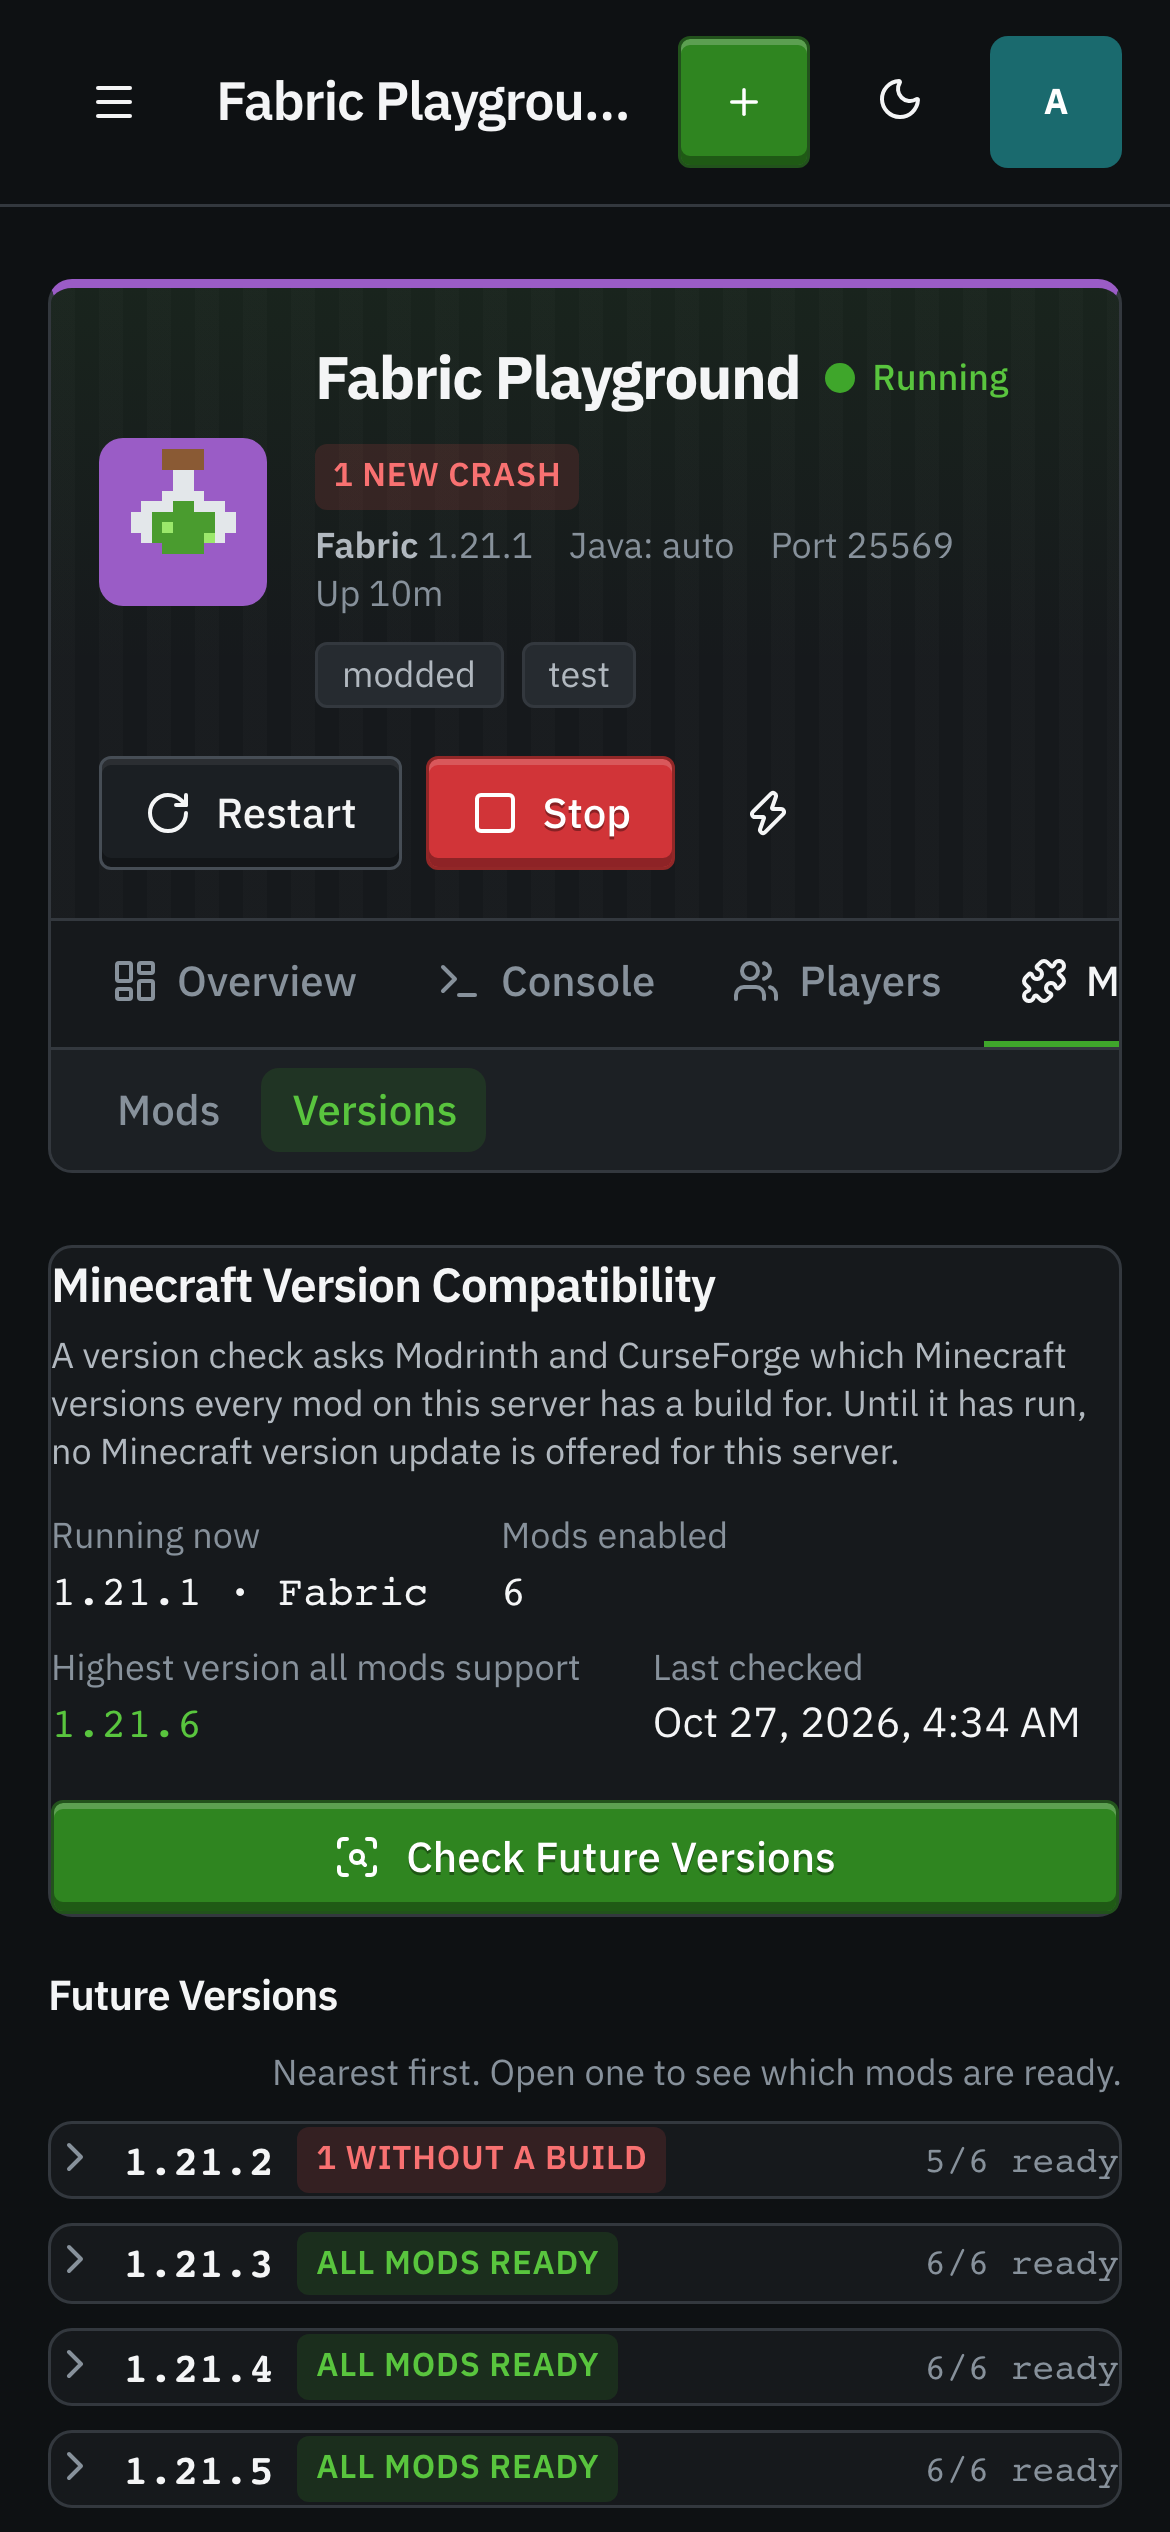
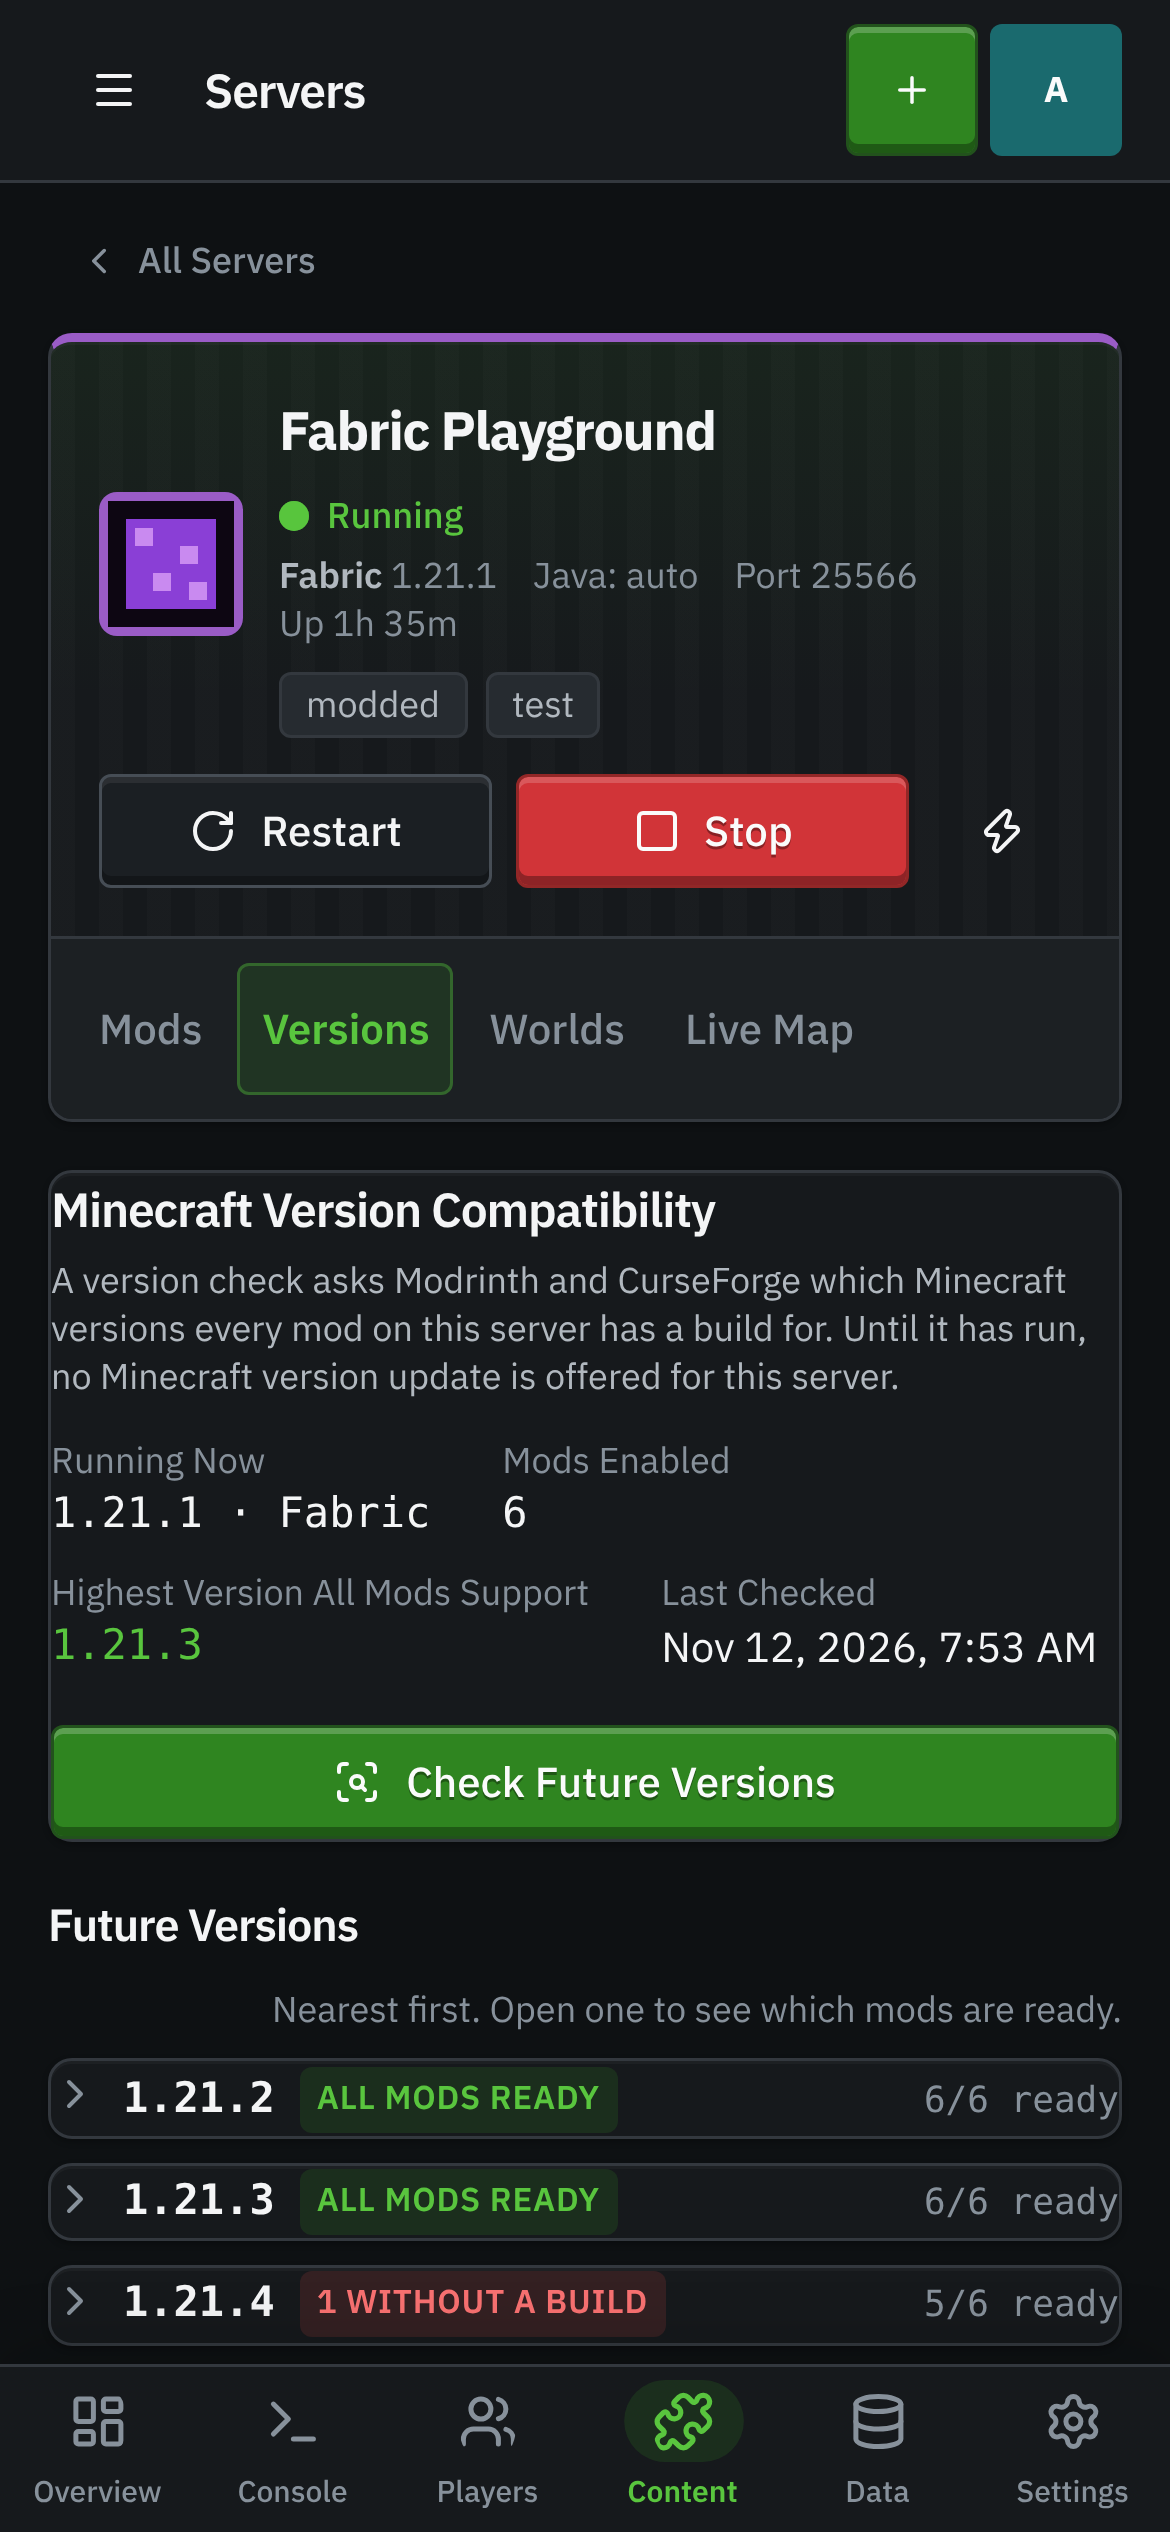
Name new server containers oxyx-<id>, generate the phone screenshots
The default container name moves from msm-<id> to oxyx-<id>. Existing
servers are resolved by their recorded container id, so they keep
working before and after a manual docker rename. Labels stay msm.*
because Docker cannot relabel a container.

The screenshot harness gains a phone context (390x844, touch, 3x) and
produces all 21 docs/images/mobile shots, which still showed the old
branding.

Claude-Session: https://claude.ai/code/session_01625yFsz8xYcE7cA88sHuDh

diff --git a/scripts/docs-screenshots.js b/scripts/docs-screenshots.js
@@ -56,6 +56,7 @@ liveCache.getAll = () => demo.liveAll();
 const OUT = {
   shots: path.join(ROOT, 'docs', 'screenshots'),
   images: path.join(ROOT, 'docs', 'images'),
+  mobile: path.join(ROOT, 'docs', 'images', 'mobile'),
 };
 
 async function main() {
@@ -79,14 +80,24 @@ async function main() {
     timezoneId: 'UTC',
     locale: 'en-US',
   };
+  // phone: shots taken as an iPhone-sized touch screen (docs/images/mobile).
+  const phoneOptions = {
+    ...contextOptions,
+    viewport: { width: 390, height: 844 },
+    deviceScaleFactor: 3,
+    isMobile: true,
+    hasTouch: true,
+  };
   const context = await browser.newContext(contextOptions);
   const page = await context.newPage();
+  /** @type {import('playwright').Page | null} */
+  let phonePage = null;
   const shots = require('./lib/docsShots')({ base, demo });
   let seeded = false;
   let done = 0;
   const failed = [];
   for (const shot of shots) {
-    if (filter && !shot.file.includes(filter)) continue;
+    if (filter && !`${shot.dir || 'images'}/${shot.file}`.includes(filter)) continue;
     const target = path.join(OUT[shot.dir || 'images'], shot.file);
     // Shots marked firstRun come first in the list and need an empty panel.
     if (!shot.firstRun && !seeded) {
@@ -96,14 +107,23 @@ async function main() {
     }
     try {
       // fresh: a separate, signed-out browser context (sign-in and setup pages).
-      const freshContext = shot.fresh ? await browser.newContext(contextOptions) : null;
-      const p = freshContext ? await freshContext.newPage() : page;
+      const options = shot.phone ? phoneOptions : contextOptions;
+      const freshContext = shot.fresh ? await browser.newContext(options) : null;
+      let p = page;
+      if (freshContext) p = await freshContext.newPage();
+      else if (shot.phone) {
+        if (!phonePage) {
+          phonePage = await (await browser.newContext(phoneOptions)).newPage();
+          await demo.signIn(phonePage, base);
+        }
+        p = phonePage;
+      }
       if (shot.viewport) await p.setViewportSize(shot.viewport);
       await shot.run(p);
       await p.evaluate(() => document.fonts && document.fonts.ready);
       await p.waitForTimeout(shot.settle ?? 350);
       await p.screenshot({ path: target, fullPage: Boolean(shot.fullPage), animations: 'disabled' });
-      if (shot.viewport) await p.setViewportSize({ width: 1440, height: 900 });
+      if (shot.viewport) await p.setViewportSize(options.viewport);
       if (freshContext) await freshContext.close();
       if (shot.after) await shot.after(page);
       done += 1;

diff --git a/src/docker/containers.js b/src/docker/containers.js
@@ -2,7 +2,7 @@
 'use strict';
 
 // Container lifecycle for managed Minecraft servers. All containers are
-// labeled msm.id=<serverId> and named msm-<serverId>.
+// labeled msm.id=<serverId> and named oxyx-<serverId> (or the admin's own name).
 
 const path = require('node:path');
 const { getDocker } = require('./connect');
@@ -19,11 +19,13 @@ const GAME_PORT = '25565';
 const RCON_PORT = '25575';
 const BEDROCK_PORT = '19132';
 
-// The default name keeps the pre-rename `msm-` prefix on purpose: a server
-// whose container id was never recorded is found by this name, so changing it
-// would lose track of a running container (and collide on its ports).
+// The default container name. Servers created before the rename may still run
+// as msm-<serverId>: containerRef() resolves them by their recorded container
+// id, so the name only matters for a server that has never had a container.
+// The Docker labels keep their msm.* keys because Docker cannot relabel a
+// running container, and the watcher and orphan checks match on them.
 function containerName(serverId) {
-  return `msm-${serverId}`;
+  return `oxyx-${serverId}`;
 }
 
 /**
@@ -35,7 +37,7 @@ function containerName(serverId) {
  * @param {string} spec.dataDir          absolute panel-local data dir, re-rooted to the host and bind-mounted to /data
  * @param {object} spec.ports            { game, rcon, bedrock? } host ports
  * @param {object} spec.resources        { memoryMb, swapMb, cpus }
- * @param {string} [spec.containerName]  Docker container name override; default `msm-<serverId>`
+ * @param {string} [spec.containerName]  Docker container name override; default `oxyx-<serverId>`
  * @param {string} [spec.networkName]    host Docker network to attach to; created if it does not exist; default bridge
  * @param {Array}  [spec.extraPorts]     [{container: '8100/tcp', host, internal?}] feature + admin extra ports
  * @param {Array}  [spec.extraBinds]     [{hostPath, containerPath, mode: 'rw'|'ro'}] - RAW host paths, not re-rooted

diff --git a/scripts/lib/docsShots.js b/scripts/lib/docsShots.js
@@ -401,6 +401,44 @@ module.exports = function shots({ base, demo }) {
       settle: 900,
     },
 
+    // ---- Phones (docs/images/mobile) -----------------------------------------
+    // One screen of each page at 390x844, the way it looks in the installed app.
+    ...[
+      ['dashboard.png', go('/')],
+      ['servers-list.png', go('/servers')],
+      ['create-wizard.png', go('/servers/new'), 1200],
+      ['server-overview.png', go(`/servers/${S}`)],
+      [
+        'world-controls-mobile.png',
+        steps(
+          go(`/servers/${S}`),
+          async (page) => {
+            await page.evaluate(() => {
+              const rail = document.querySelector('#wc-rail');
+              if (rail) rail.setAttribute('open', '');
+            });
+          },
+          reveal('#wc-rail', 70)
+        ),
+      ],
+      ['server-console.png', go(`/servers/${S}/console`), 1200],
+      ['players.png', go(`/servers/${S}/players`), 900],
+      ['monitoring.png', go(`/servers/${S}/analytics`), 900],
+      ['mods.png', go(`/servers/${F}/mods`)],
+      ['server-versions.png', go(`/servers/${F}/updates`), 900],
+      ['server-worlds.png', go(`/servers/${S}/worlds`)],
+      ['server-backups.png', go(`/servers/${S}/backups`)],
+      ['server-settings.png', go(`/servers/${S}/settings`)],
+      ['history.png', go(`/servers/${S}/history`)],
+      ['modpacks.png', go('/modpacks')],
+      ['updates.png', go('/updates')],
+      ['schedules.png', go('/schedules')],
+      ['storage.png', go('/storage')],
+      ['settings.png', go('/settings')],
+      ['permissions.png', go('/settings/permissions')],
+    ].map(([file, run, settle]) => ({ file, dir: 'mobile', phone: true, run, settle })),
+    { file: 'login.png', dir: 'mobile', phone: true, fresh: true, run: go('/login') },
+
     // ---- Account -------------------------------------------------------------
     {
       file: '2fa-user-menu.png',

diff --git a/test/docker-containers.test.js b/test/docker-containers.test.js
@@ -65,8 +65,8 @@ test('containerName and containerRef: the stored id wins, then the stored name, 
   );
   assert.equal(containers.containerRef('srv_cn1'), 'abc123');
   assert.equal(containers.containerRef('srv_cn2'), 'named');
-  assert.equal(containers.containerRef('srv_unknown'), 'msm-srv_unknown');
-  assert.equal(containers.containerName('srv_x'), 'msm-srv_x');
+  assert.equal(containers.containerRef('srv_unknown'), 'oxyx-srv_unknown');
+  assert.equal(containers.containerName('srv_x'), 'oxyx-srv_x');
 });
 
 test('createContainer builds the full spec: ports, limits, labels, healthcheck, binds', async () => {
@@ -88,7 +88,7 @@ test('createContainer builds the full spec: ports, limits, labels, healthcheck, 
   });
   assert.equal(id, 'new-id');
   const spec = created[0];
-  assert.equal(spec.name, 'msm-srv_spec');
+  assert.equal(spec.name, 'oxyx-srv_spec');
   assert.equal(spec.Image, 'itzg/minecraft-server:java21');
   assert.deepEqual(spec.Env, ['EULA=TRUE', 'MEMORY=2G']);
   assert.deepEqual(spec.Labels, { 'msm.id': 'srv_spec', 'msm.managed': 'true' });

diff --git a/src/services/dockerSpec.js b/src/services/dockerSpec.js
@@ -73,9 +73,8 @@ async function validateOverrides(
       `Container name "${containerName}" is invalid. Use letters, digits, "_", ".", "-", starting with a letter or digit, up to 63 characters.`
     );
   }
-  // getContainer() resolves servers WITHOUT a custom name as msm-<id> (kept from before the rename
-  // so existing containers stay found); oxyx- is reserved too, for a future default. A
-  // custom name in that namespace could shadow another server's container and
+  // Servers without a custom name run as oxyx-<id> (msm-<id> for ones created before the
+  // rename), so both prefixes are reserved. A custom name in that namespace could shadow another server's container and
   // route every lifecycle action (stop, kill, exec…) to the wrong instance.
   if (containerName != null && /^(oxyx|msm)-/i.test(containerName)) {
     errors.push(

diff --git a/src/db/migrations/007_docker_advanced.js b/src/db/migrations/007_docker_advanced.js
@@ -3,7 +3,7 @@
 // Advanced Docker settings: custom container name, a non-default Docker
 // network to attach to, and extra port/volume mappings beyond the built-in
 // game/rcon/bedrock ports and the single /data bind. NULL/'[]' = use the
-// panel's default behavior (msm-<id> name, bridge network, no extras).
+// panel's default behavior (default container name, bridge network, no extras).
 
 function up(db) {
   db.exec(`

diff --git a/src/web/routes/dockerOverridesSchema.js b/src/web/routes/dockerOverridesSchema.js
@@ -11,7 +11,7 @@ const { z } = require('zod');
 const httpError = require('../../utils/httpError');
 
 const dockerOverridesSchema = {
-  // '' is accepted (and only meaningful in a PATCH) as "clear it, go back to msm-<id>".
+  // '' is accepted (and only meaningful in a PATCH) as "clear it, go back to oxyx-<id>".
   containerName: z
     .union([
       z.literal(''),

diff --git a/CHANGELOG.md b/CHANGELOG.md
@@ -18,8 +18,18 @@ its own dated entry.
   in the console, a buzz on server actions, and which page the app opens on. On Android you can
   share a mod or plugin link to Oxyx and add it to a server. See `docs/mobile-app.md`.
 
+### Changed
+
+- **New server containers are named `oxyx-<server id>`** instead of `msm-<server id>`. Existing
+  containers keep working under their old name, because the panel finds them by their Docker id.
+  To rename one by hand, run `docker rename msm-<server id> oxyx-<server id>`. It is safe while the
+  server runs, and a rebuild from the panel also creates it under the new name. Custom container
+  names are untouched, and the `msm-` prefix stays reserved.
+
 ### Fixed
 
+- **Phone screenshots in the docs** are now made by `pnpm run docs:screenshots` at iPhone size, so
+  all 21 in `docs/images/mobile` show the current branding and layout.
 - **Consistent wording across the panel and docs.** Schedule task names, settings change rows and
   other short labels now use Title Case, startup phase lines end in an ellipsis while they are in
   progress, spelling is US English throughout, and leftover references to the old name are gone
